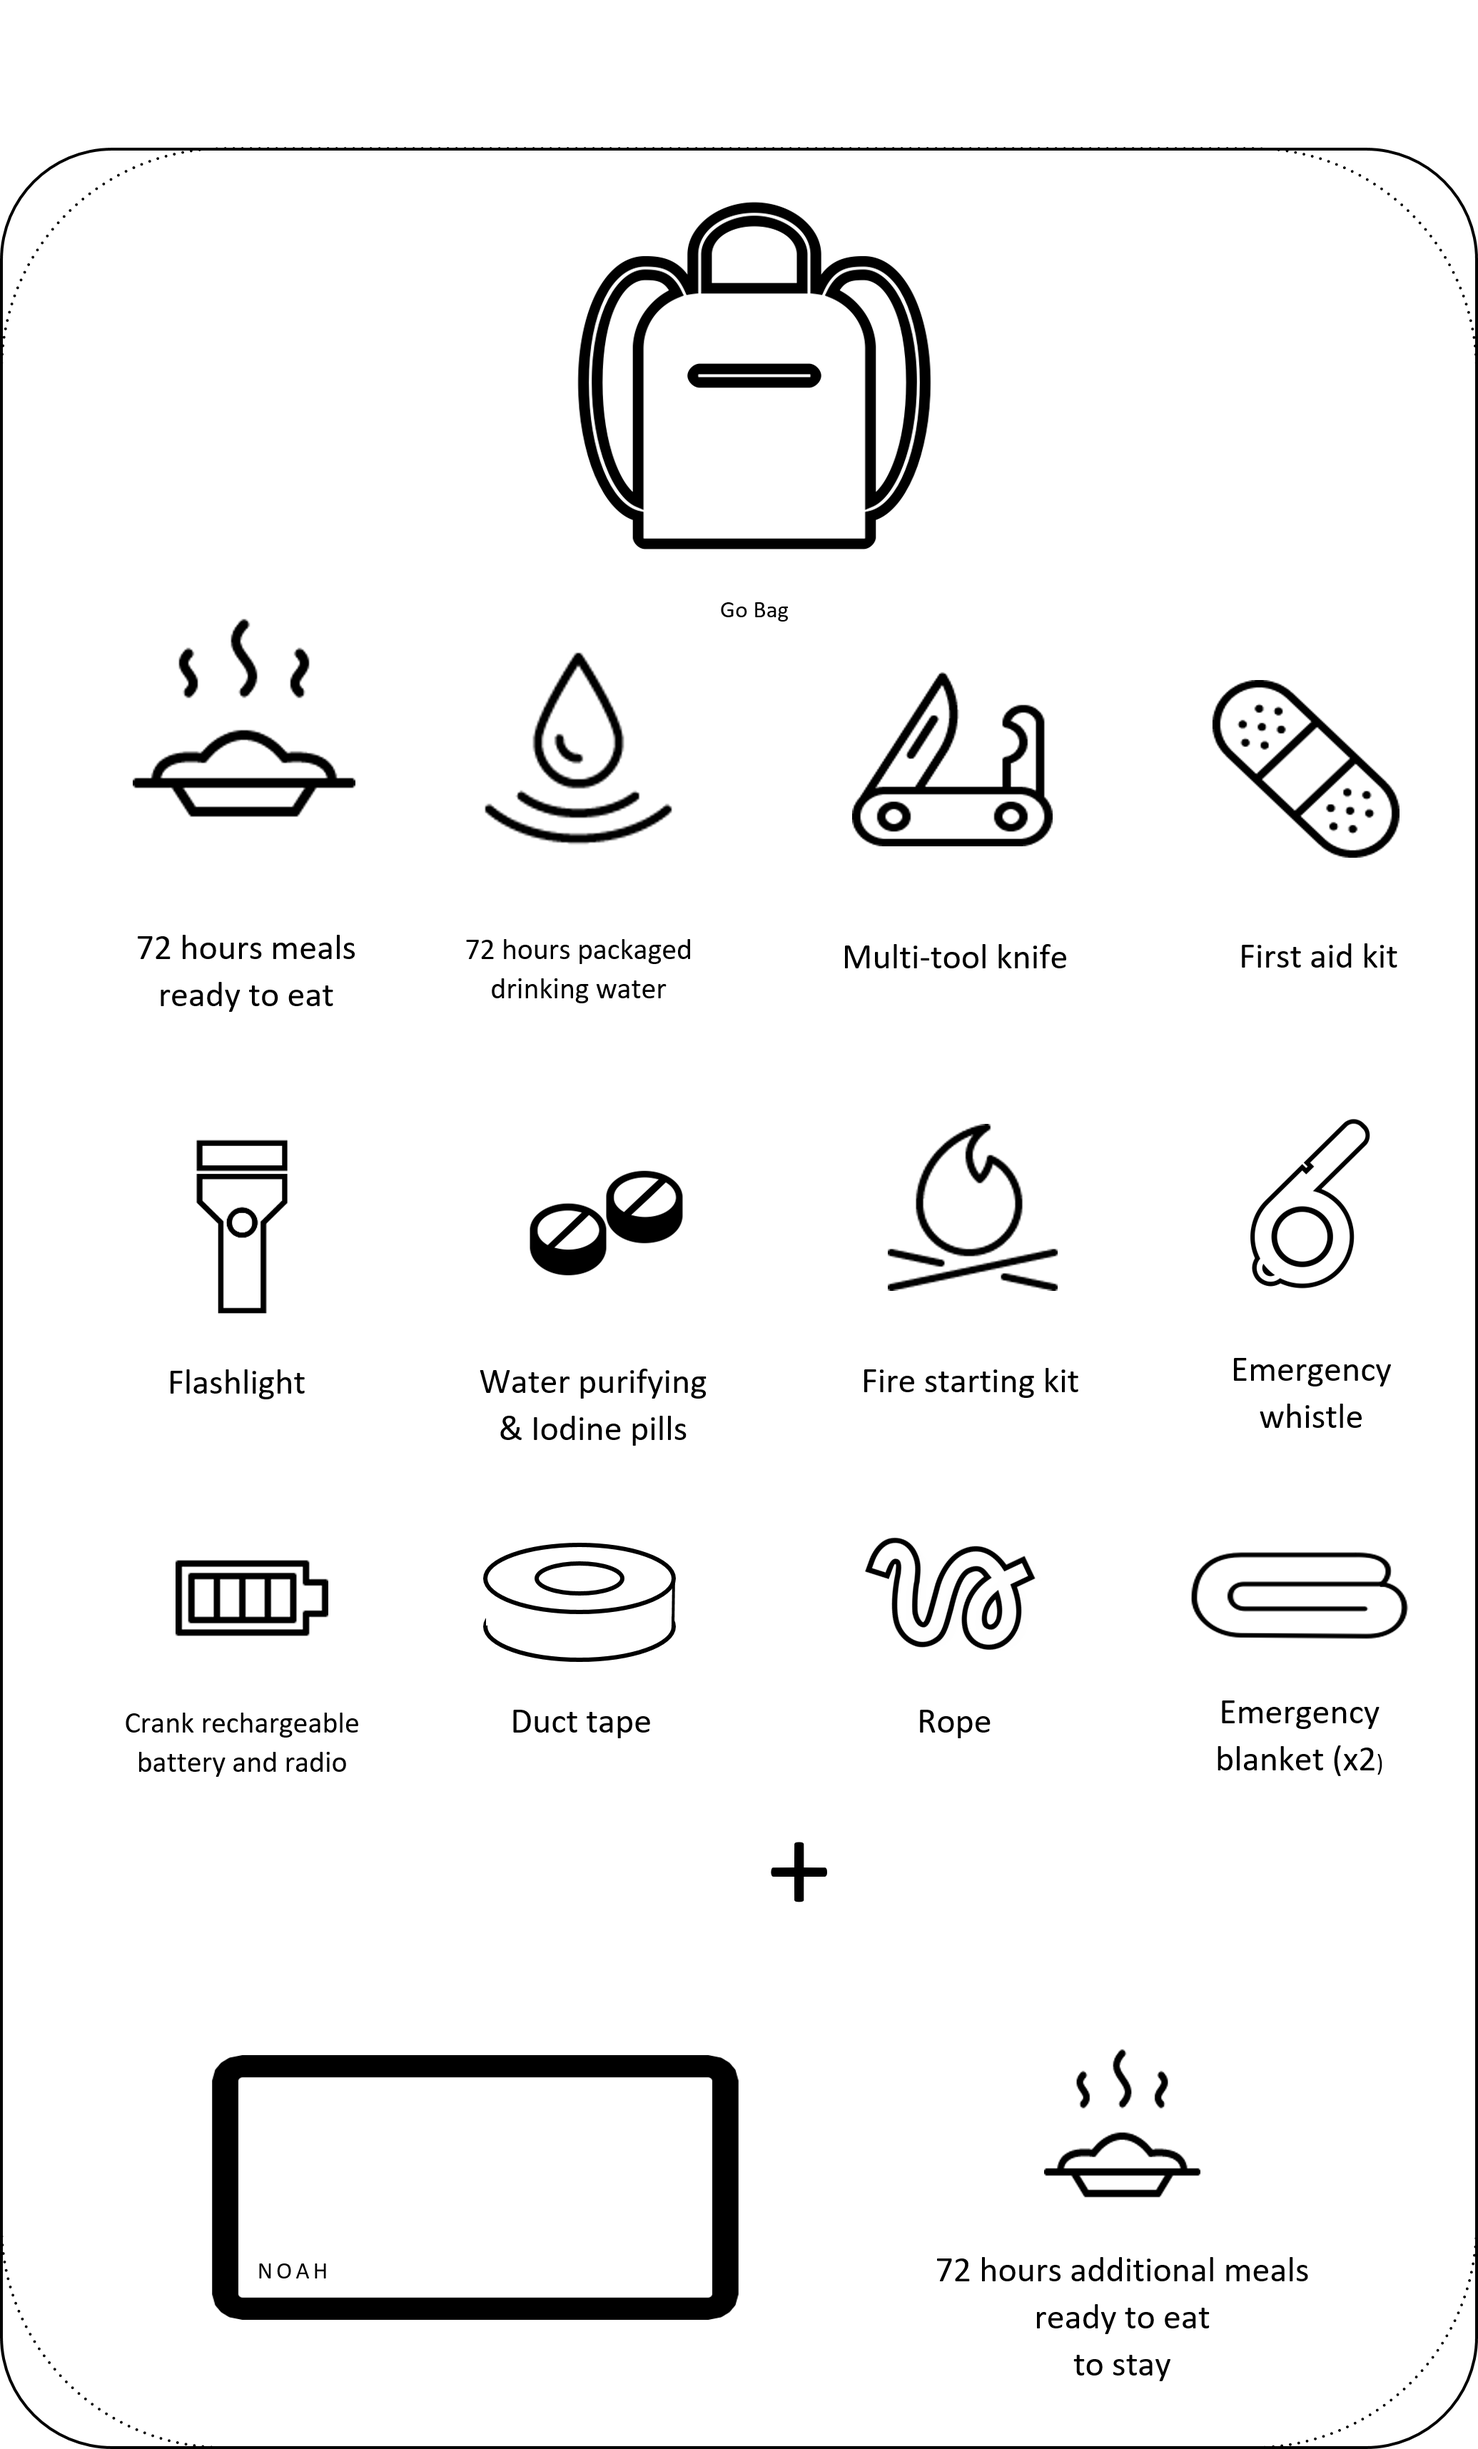
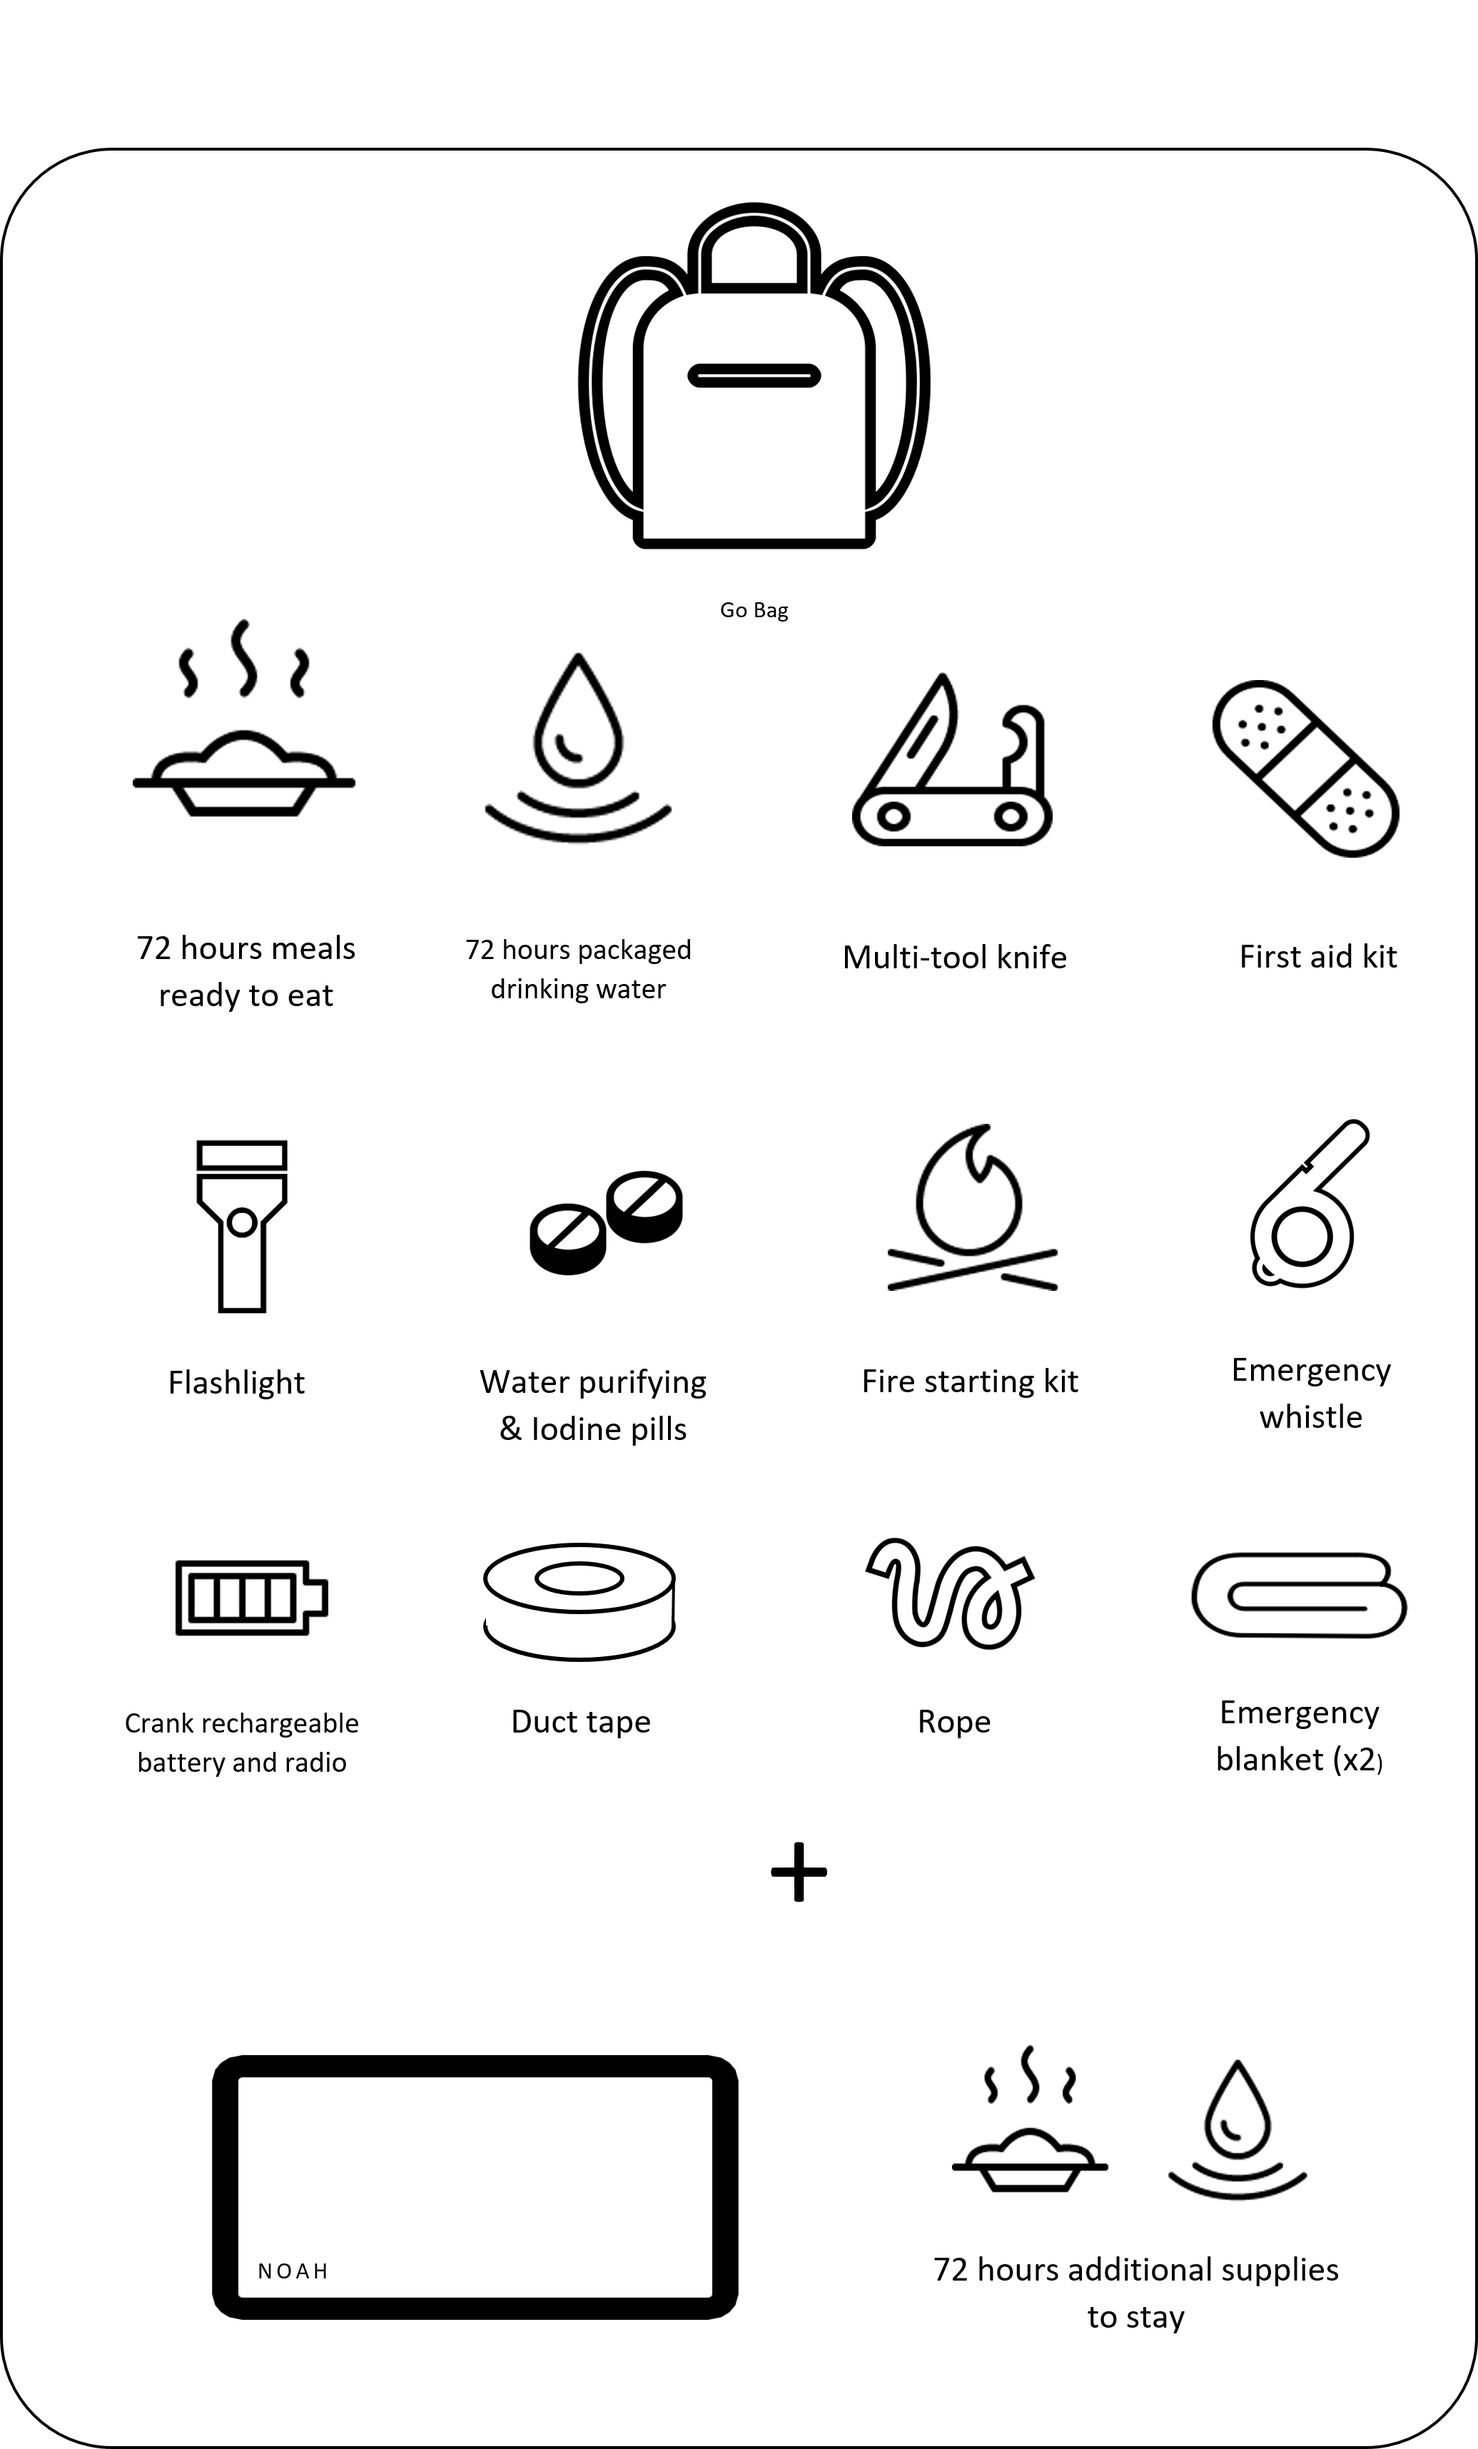
website v2 ++

Changed region(s): [[0.649, 0.8418, 0.8962, 0.9665]]

diff --git a/shop2.html b/shop2.html
@@ -246,8 +246,9 @@ window['_fs_namespace'] = 'FS';
                <a class="lightbox-close" href="shop2.html#"></a>
             </div>
                       <h3><b>Drinking Water</b><br></h3>
-            <h5 class="water-quantity"><span class="text-thin">Quantity:</span> <i>36</i></h5> 
-          <p>Packaged water that is shelf stable for 5 years. Each packet of individually sealed water represents one serving.<br>(1 Serving / Person / 4 Hours)</p>
+            <h5 class="water-quantity"><span class="text-thin">Quantity:</span> <i>36</i> + <i>36</i></h5> 
+          <p>Packaged water that is shelf stable for 5 years. Each packet of individually sealed water represents one serving.<br>(1 Serving / Person / 4 Hours)<br>
+            Your kit includes additional drinking water packs to shelter in place.</p>
         </div>
           </div>      
         <hr>
@@ -588,21 +589,29 @@ window['_fs_namespace'] = 'FS';
               experiment1_name: [
                 {
                   name: 'prixbas',
-                  "prixtext": "180.00",
+                  "prixtext": "172.00",
                     "prixinput": "<input type='hidden' id='total_cost' name='total_cost' value='$172.00'>",
                     "prixvariable": "<input type='hidden' id='variable_price' name='variable_price' value='36'>",
                    "prixfixe": "<input type='hidden' id='fixed_price' name='fixed_price' value='100'>"
                 },
                 {
                   name: 'prixmiddle',
-                  "prixtext": "216.00",
+                  "prixtext": "215.00",
                    "prixinput": "<input type='hidden' id='total_cost' name='total_cost' value='$215.00'>",
                      "prixvariable": "<input type='hidden' id='variable_price' name='variable_price' value='45'>",
                      "prixfixe": "<input type='hidden' id='fixed_price' name='fixed_price' value='125'>"
                 },
+                  
+                    {
+                  name: 'prixmiddlehaut',
+                  "prixtext": "268.00",
+                   "prixinput": "<input type='hidden' id='total_cost' name='total_cost' value='$268.00'>",
+                     "prixvariable": "<input type='hidden' id='variable_price' name='variable_price' value='56'>",
+                     "prixfixe": "<input type='hidden' id='fixed_price' name='fixed_price' value='156'>"
+                },
                    {
                   name: 'prixhaut',
-                  "prixtext": "320.00",
+                  "prixtext": "301.00",
                    "prixinput": "<input type='hidden' id='total_cost' name='total_cost' value='$301.00'>",
                         "prixvariable": "<input type='hidden' id='variable_price' name='variable_price' value='63'>",
                         "prixfixe": "<input type='hidden' id='fixed_price' name='fixed_price' value='175'>"

diff --git a/ajax/oculus_website.html b/ajax/oculus_website.html
@@ -66,7 +66,7 @@
         
         <hr>
         
-            <div class="row">
+            <<div class="row">
         <div class="col-xs-4">
             
                 <a class="lightbox" href="#water">
@@ -79,8 +79,9 @@
                <a class="lightbox-close" href="shop2.html#"></a>
             </div>
                       <h3><b>Drinking Water</b><br></h3>
-            <h5 class="water-quantity"><span class="text-thin">Quantity:</span> <i>36</i></h5> 
-          <p>Packaged water that is shelf stable for 5 years. Each packet of individually sealed water represents one serving.<br>(1 Serving / Person / 4 Hours)</p>
+            <h5 class="water-quantity"><span class="text-thin">Quantity:</span> <i>36</i> + <i>36</i></h5> 
+          <p>Packaged water that is shelf stable for 5 years. Each packet of individually sealed water represents one serving.<br>(1 Serving / Person / 4 Hours)<br>
+            Your kit includes additional drinking water packs to shelter in place.</p>
         </div>
           </div>      
         <hr>
